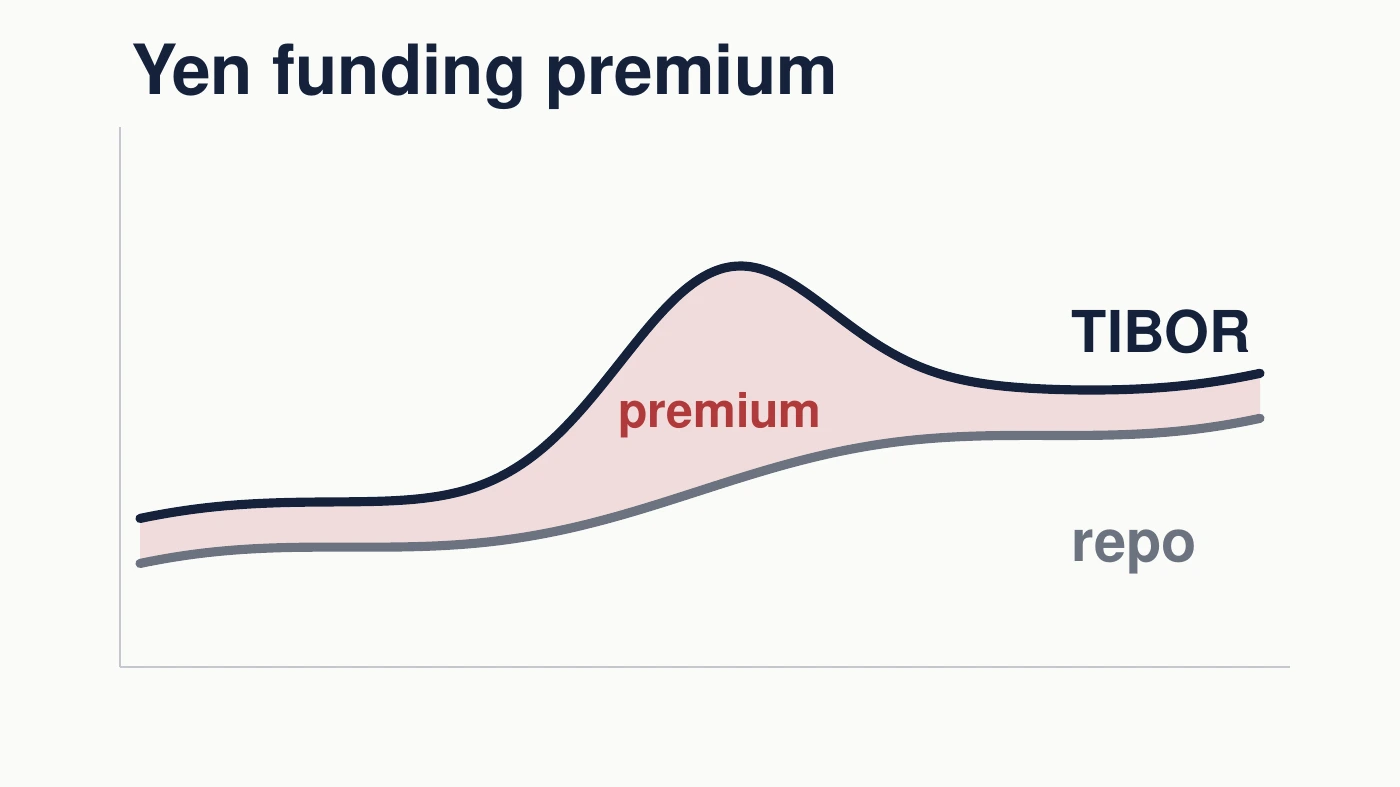
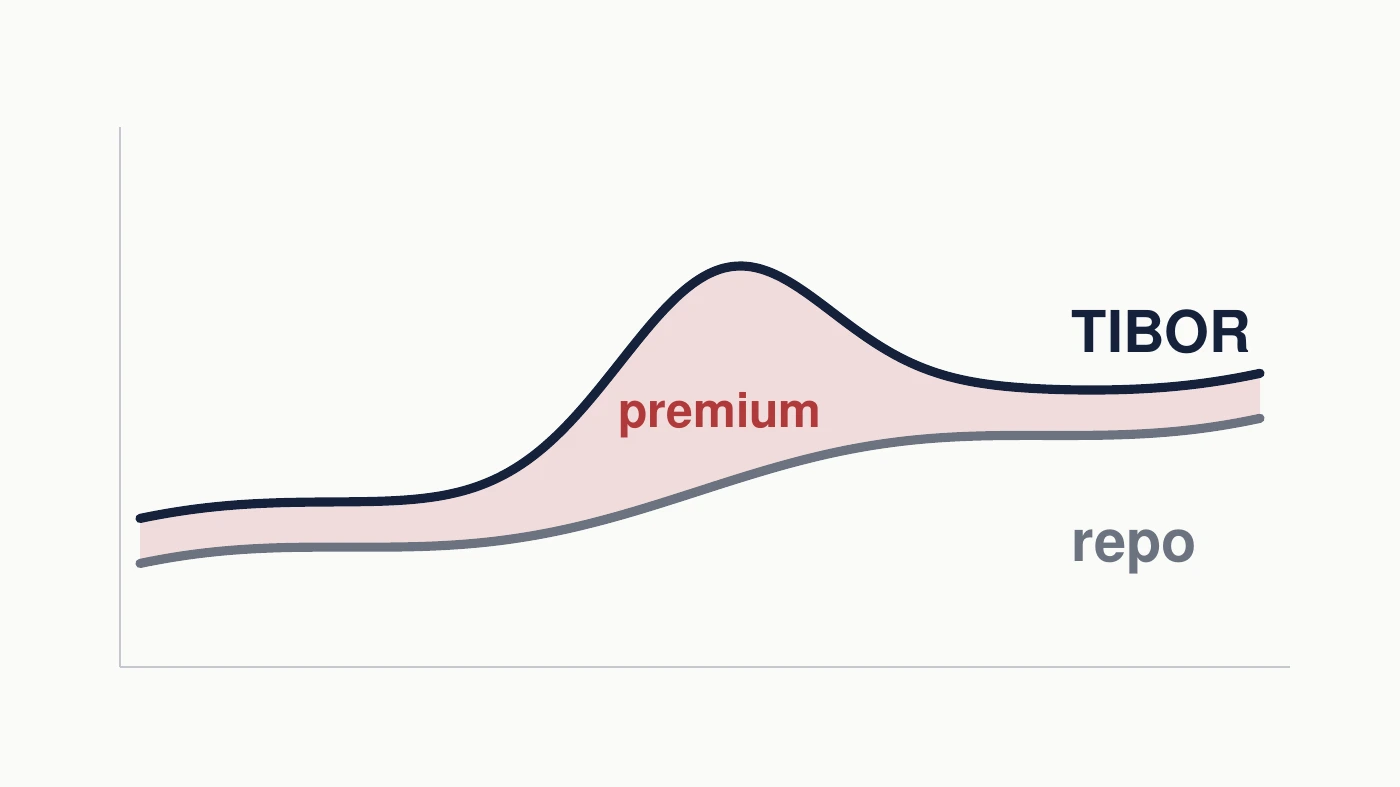
Cleaned YenFM thumnail and added sources

Changed region(s): [[0.0921, 0.0305, 0.6143, 0.1525]]

diff --git a/_projects/project-8.md b/_projects/project-8.md
@@ -1,6 +1,6 @@
 ---
 layout: page
-title: "Yen Funding Monitor"
+title: "YenFM"
 description: "How expensive is yen funding today, and is it getting tighter?"
 img: assets/images/gen/projects/yenfmthumb.webp
 tags: quant
@@ -10,8 +10,7 @@ category: Market Signals
 date: 2026-10-27
 ---
 
-
-> Yen Funding Monitor (YenFM) monitors yen funding conditions in Tokyo's bank market, updated every business day.
+> YenFM monitors yen funding conditions in Tokyo's bank market, updated every business day.
 
 **[YenFM in action → click here](https://yenfm.nippotica.com/)**
 
@@ -57,6 +56,21 @@ Tested on 4,839 Tokyo business days, from October 29, 2007 to October 16, 2026.
 - **Covid shock.** The first alert came on March 9, 2020.
 - **Rate changes alone.** No alert when negative rates began in January 2016, and none after the July 2024 hike. Two alerts came within a month of a Bank of Japan decision, in March 2024 and January 2025. The daily reading notes this.
 - **Unexplained alerts.** One in 19 years, on February 20, 2026, with no market episode or Bank of Japan decision behind it.
+
+---
+
+### Sources
+
+**Data**
+
+- JBA TIBOR Administration, [Japanese Yen TIBOR](https://www.jbatibor.or.jp/english/rate/). Includes the notice of February 24, 2017 on the TIBOR reform that took effect on July 24, 2017.
+- Japan Securities Dealers Association, [Tokyo Repo Rate](https://www.jsda.or.jp/shiryoshitsu/toukei/trr/index.html) (in Japanese). Publisher since October 29, 2012.
+- Bank of Japan, [Tokyo Repo Rate](https://www.boj.or.jp/en/statistics/stop/trp/index.htm). Publisher from October 29, 2007 to October 26, 2012.
+
+**Changes in how the rates are set**
+
+- Bank of Japan, [Market Operations in Fiscal 2012](https://www.boj.or.jp/research/brp/ron_2013/data/ron130509a.pdf) (in Japanese), May 2013. Box 2 covers the shorter bond settlement from April 23, 2012.
+- Japan Securities Clearing Corporation, [Shortening of JGB Settlement Cycle to T+1 Goes Live on May 1](https://www.jpx.co.jp/jscc/en/information/news/20180429.html), April 29, 2018.
 
 ---
 
